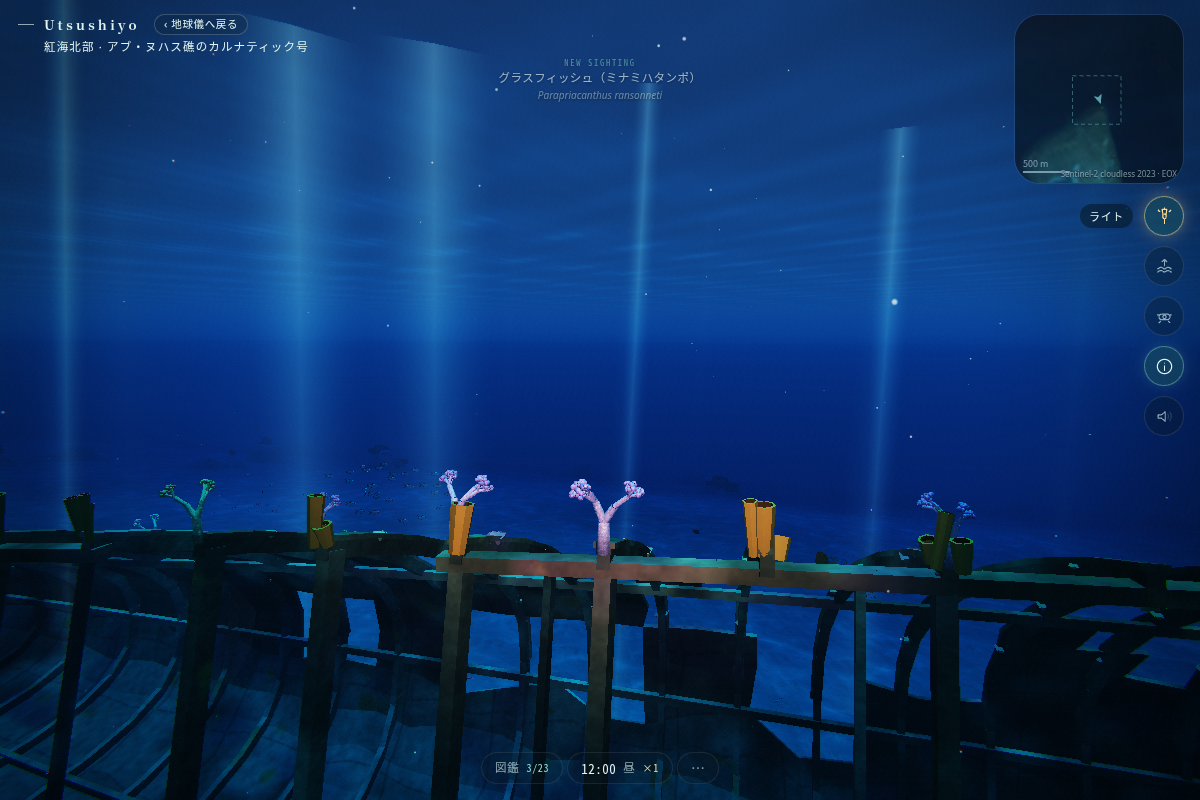
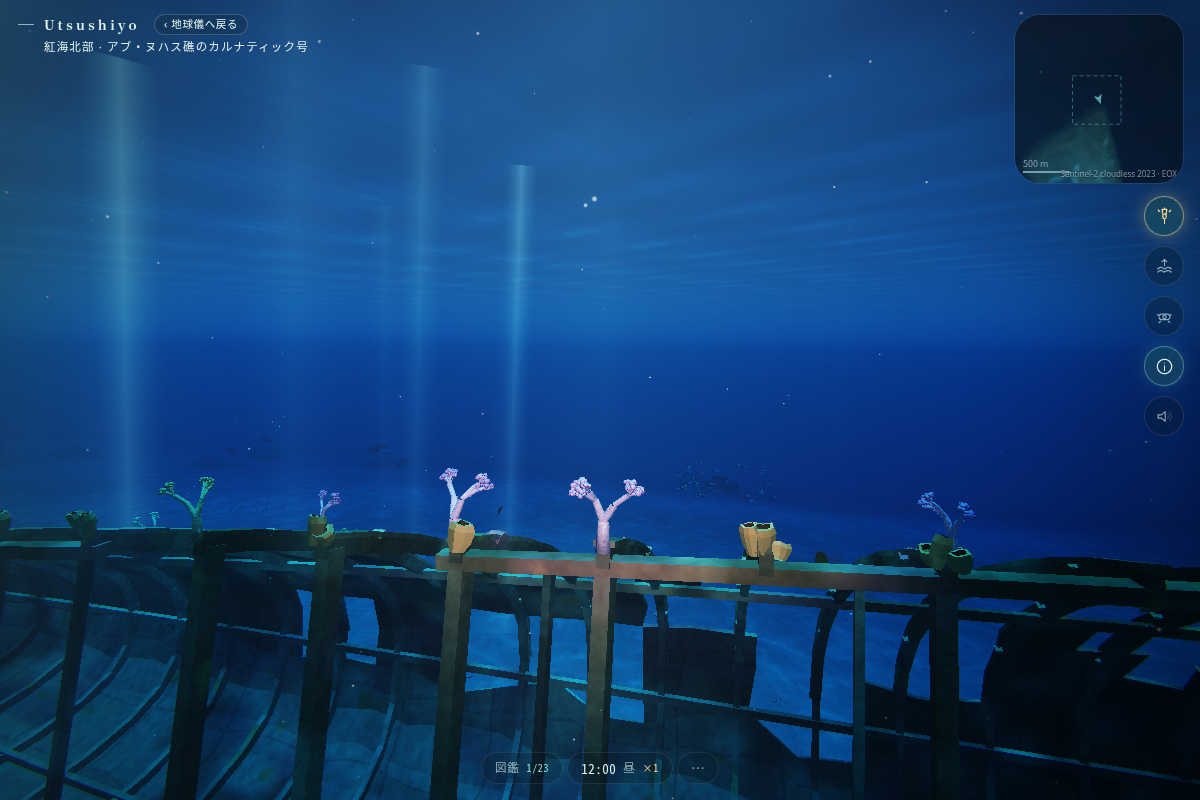
Finalize Astra Carnatic review captures and cost summary

diff --git a/docs/proposals/astra-carnatic/README.md b/docs/proposals/astra-carnatic/README.md
@@ -12,7 +12,7 @@
 
 ## 比較画像
 
-同じ指定位置・注視点、1200 × 800、low tier、UTC `2026-06-20T10:00:00Z`。天候は cloud 0.1 / wind 2。原型は dev、新型は production build + preview の実画面。ドローンの微小な上下動・衝突補正・生態系の動きは動作しており、画素単位で一致する比較ではない。
+同じ指定位置・注視点、1200 × 800、low tier、開始時刻はUTC `2026-06-20T10:00:00Z`（時計は×1で進む）。天候は cloud 0.1 / wind 2。原型は dev、新型は production build + preview の実画面。ドローンの微小な上下動・衝突補正・生態系の動きは動作しており、画素単位で一致する比較ではない。
 
 | 原型 | この試作 |
 | --- | --- |
@@ -22,6 +22,8 @@
 
 追加: [側面・原型](images/before-broadside.png) / [側面・試作](images/after-broadside.png)、[船首・原型](images/before-bow.png) / [船首・試作](images/after-bow.png)。
 
+最終形状の[ライト近景](images/after-detail-lamp.png)では、低い壺形の海綿の開口、梁の厚み、被覆を確認できる。ライトを点灯した別条件なので、原型との明るさ比較には使わない。撮影日時・読み込んだproduction bundle・実カメラ位置は[5視点の記録](images/after.json)と[近景の記録](images/after-detail.json)に保存した。
+
 | 視点 | 指定位置 | 注視点 |
 | --- | --- | --- |
 | overview | `[47,-5,-35]` | `[5,-14,-3]` |
@@ -29,6 +31,7 @@
 | stern | `[-50,-12,-18]` | `[-28,-15,-2]` |
 | broadside | `[4,-10,-45]` | `[6,-15,1]` |
 | bow | `[59,-13,-14]` | `[41,-16,-1]` |
+| lamp（ライト点灯） | `[24,-7.9,-12]` | `[26,-8.6,-5.8]` |
 
 ## 実装したこと
 
@@ -59,23 +62,39 @@
 
 ## 検証
 
-Node 22.23.3、既存 lockfile の `npm ci`、追加 dependency なし。
[1 lines of base64/hex data omitted]
+
+型検査・build・構造検査はこの最終形状で復旧前に成功している。環境復旧後にソースの一致と保存済みbuildを確認し、同じproduction bundleで5視点とライト近景を再撮影、実ドローン制御の両方向を再検査した。造形・アプリのソースは復旧後に変更していない。
 
 | 確認 | 結果 |
 | --- | --- |
 | `npm run typecheck` | 成功 |
 | `npm run build` | 成功。Vite の既存 `__dirname` / 次期 config loader 警告あり。 |
 | `npx tsx --import ./scripts/node-assets.mjs scripts/astra-wreck-check.ts` | 成功。73,396頂点・36,698三角形、有限属性、非縮退面、単位法線と表裏、潜水した境界を検査。 |
-| 実 `buildOcean` と衝突 | 3,426障害物点、183,999面内サンプルが実マップに覆われる。40付着点、100 `spot(out)` サンプルが有効。 |
-| ツアー | 両方向281サンプル、海底との最短4.20 m、障害物との最短3.00 / 3.52 m。実メッシュ距離とDirector完走も確認。 |
-| production browser | Chromium / SwiftShader / low、5視点。page error 0、WebGL error 0、context lostなし。画像を開いて目視。 |
-| 実ドローン制御 | browser の `seaglass.stepDrone(1/60)` を両方向4,262ステップずつ実行。両方完走、障害物の最短余裕2.997 / 3.483 m、終点差0.034 / 0.033 m。[実測JSON](drone-check.json)。これは制御の早回し検査で、70秒間の描画映像の検査ではない。 |
-| `npm run sim -- carnatic` | 成功。昼・夕・夜・朝の既存シミュレーションを実行。 |
+| 実 `buildOcean` と衝突 | 3,427障害物点、183,999面内サンプルが実マップに覆われる。40付着点、100 `spot(out)` サンプルが有効。 |
+| ツアー | 両方向281サンプル、海底高さに対する鉛直余裕の最小4.20 m、障害物高さマップに対する最小3.00 / 3.52 m。各経路サンプルで実メッシュとの距離0.7 m以上、Director完走も確認。 |
+| production browser | Chromium / SwiftShader / low、5視点＋ライト近景。page error 0、採取時のWebGL error 0、context lostなし。画像を開いて目視。外部リソース取得の失敗はこのJS/WebGL判定には含めない。 |
+| 実ドローン制御 | browser の `seaglass.stepDrone(1/60)` を両方向4,262ステップずつ実行。両方完走、障害物高さマップに対する鉛直余裕の最小2.997 / 3.483 m、終点差0.033 / 0.033 m。[実測JSON](drone-check.json)。これは制御の早回し検査で、70秒間の描画映像の検査ではない。 |
+| `npm run sim -- carnatic` | 昼・夕・夜・朝の既存シミュレーションは成功。最後の海綿形状の微調整前の実行結果で、復旧後は再実行していない。 |
 
 Windows ANGLE / D3D11、Safari、スマートフォン、実GPUでのフレーム時間・長時間運転は未検証。専用シェーダーにテクスチャ取得・早期return・discardを追加していないが、SwiftShaderでの成功をD3D11の保証とはしない。ソフトウェア描画の所要時間は実機FPSとして報告しない。障害物は既存の高さマップなので、船体の空洞を安全に自由潜航できる3D衝突にはなっていない。
 
 ## コストと引き継ぎ
 
 正確な計数は [costs.json](costs.json)、判断点と採用手順は [CLAUDE_HANDOFF.md](CLAUDE_HANDOFF.md)。船体+小型付着物は1メッシュ/1素材。40個の既存サンゴは別の既存instancingに合流するため、付着物まで「1 draw」とは言わない。新規テクスチャ・外部モデル・依存はない。
+
+| 計数対象 | 原型 | この試作 |
+| --- | ---: | ---: |
+| 船体メッシュの頂点 | 5,553 | 73,396 |
+| 船体メッシュの三角形（小型付着塊・海綿を含む） | 8,580 | 36,698 |
+| 船体の頂点属性＋indexのバイト数 | 251,388 B | 3,376,216 B |
+| index形式 | Uint16 | Uint32 |
+| 既存サンゴの付着点 | 87（fan 15 / soft 72） | 40（fan 8 / soft 32） |
+| 上記サンゴを全個体1回ずつ描く三角形数 | 230,904 | 103,296 |
+| 船体＋上記サンゴの三角形数の算術合計 | 239,484 | 139,994 |
+
+船体単体は約4.28倍の三角形と約13.43倍の属性/indexバイト数を使う。一方、既存サンゴの付着数を減らしたため、船体と全付着サンゴを各1回描く算術合計は約41.5%減る。この合計は周囲の海、可視判定、追加描画pass、shader処理を含まず、実GPU速度の比較ではない。バイト数もJSオブジェクト・生成時の一時配列・CPU/GPU双方のコピー・driverの割当を含まない。
+
+`costs.json` は制作時の計測結果と計測手順の記録。細かな属性バイト数と原型/試作の付着サンゴ照合を再生成する一時スクリプトは同梱していない。`astra-wreck-check.ts` で再現できるのはジオメトリ・衝突・付着点・ツアーの検査まで。
 
 再現用の [capture.cjs](capture.cjs) と [drone-check.cjs](drone-check.cjs) は cloud に既にある Playwright / Chromium を利用する補助ツール。アプリの依存ではない。

diff --git a/docs/proposals/astra-carnatic/CLAUDE_HANDOFF.md b/docs/proposals/astra-carnatic/CLAUDE_HANDOFF.md
@@ -4,7 +4,7 @@
 
 ## 最初に見るもの
 
-1. [README](README.md) の原型/試作の3視点。内部の奥行き、中央の切れ目、細い船首・船尾、海の静けさを見てほしい。
+1. [README](README.md) の原型/試作の5視点と最終形状のライト近景。内部の奥行き、中央の切れ目、細い船首・船尾、海の静けさを見てほしい。
 2. [変更の中心](../../../src/ocean/wreck.ts) を開く。実装は `src/ocean/wreck.ts` の1ファイルのみ。
 3. [costs.json](costs.json) と [drone-check.json](drone-check.json)。画面の印象と描画量・衝突の安全性を分けて判断する。
 
@@ -27,17 +27,19 @@ npm run typecheck
 npm run build
 npx tsx --import ./scripts/node-assets.mjs scripts/astra-wreck-check.ts
 npm run sim -- carnatic
-npm run preview -- --host 127.0.0.1 --port 4176
+npm run preview -- --host 127.0.0.1 --port 4176 --strictPort
 ```
 
 別プロセスから、cloudの既存 `NODE_PATH` で Playwright が読める状態で実行する。
 
 ```sh
+export NODE_PATH="${NODE_PATH:-/opt/codex/runtimes/codex-primary-runtime/dependencies/node/node_modules}"
 node docs/proposals/astra-carnatic/capture.cjs http://127.0.0.1:4176 carnatic review
+node docs/proposals/astra-carnatic/capture.cjs http://127.0.0.1:4176 carnatic review-detail detail
 node docs/proposals/astra-carnatic/drone-check.cjs http://127.0.0.1:4176
 ```
 
-`capture.cjs` は既存のアプリ画面へドローンを移動するだけ。画面の上下動・魚・粒子は止めていない。スクリーンショットを開いて自分でも見ること。将来の開発環境ではChromiumのパスを修正する必要がある。開発用は `npm run dev -- --host 127.0.0.1 --port 5176`。
+`capture.cjs` は既存のアプリ画面へドローンを移動するだけ。第4引数 `detail` でライトを点灯し、位置 `[24,-7.9,-12]` / 注視点 `[26,-8.6,-5.8]` の近景を撮る。上記では `images/review-*.png` と `images/review-detail-lamp.png`、対応するJSONを作る。画面の上下動・魚・粒子は止めていない。スクリーンショットを開いて自分でも見ること。将来の開発環境ではChromiumとPlaywrightのパスを修正する必要がある。開発用は `npm run dev -- --host 127.0.0.1 --port 5176 --strictPort`。
 
 ## 実装の地図
 
@@ -52,12 +54,12 @@ node docs/proposals/astra-carnatic/drone-check.cjs http://127.0.0.1:4176
 - **実物との一致**: この試作は資料未照合の解釈。実際の残存肋骨・外板・マスト・機関部と照合し、正確でないディテールを減らしてほしい。
 - **骨格の規則性**: 読みやすさのため周期が残る。近景でまだ新品の骨組みに見えるなら、資料に基づいて梁の抜け・曲がり・被覆密度を調整する。
 - **既存サンゴ**: 大きいウミウチワや樹状サンゴは既存モデルを再利用。海藻/サンゴ全体の描画品質は本案の変更外。
-- **コスト**: 船体は36,698三角形。近景の厚みと付着の小塊に多くを使う。実GPUで重ければpart4/5の密度や遠景LODをまず検討する。三角形だけでFPSは決められない。
+- **コスト**: 船体は36,698三角形・3,376,216 Bで、原型の8,580三角形・251,388 Bから増える。付着サンゴは87→40個に減り、船体＋全付着サンゴを各1回描く算術合計は239,484→139,994三角形。実GPU速度を測った値ではない。重ければpart4/5の密度や遠景LODをまず検討する。
 - **衝突**: 既存高さマップを維持し、外側のツアーは検査済み。内部潜航を採用するなら別目的として3D衝突・経路を設計する必要がある。
 - **乱数**: モデル造形に専用seedを使うようにしたため、共有乱数を使っていた原型とは周辺の初期配置がずれる。保存形式や住民ロジックの変更はない。
 
 ## 検証済み / 未検証
 
-型・build・Carnatic sim、有限ジオメトリ/面/法線、実マップの面内被覆、両方向のツアーとDirector、productionの5視点、実ドローン制御の両方向の早回しを確認済み。細かな数字はREADMEとJSONにある。
+最終形状の型・build、有限ジオメトリ/面/法線、実マップの183,999面内サンプル被覆（障害物点3,427）、両方向のツアーとDirectorを確認済み。環境復旧後に最終sourceのSHA-256一致を確認し、productionの5視点＋ライト近景を再撮影・目視した。実ドローン制御も同じproduction bundleで両方向の早回しを再確認。Carnatic simの昼・夕・夜・朝は最後の海綿形状の微調整前に成功し、復旧後は再実行していない。細かな数字・実行範囲・source SHAはREADMEとJSONにある。
 
 未検証は現地写真との照合、Windows ANGLE/D3D11、Safari/スマートフォン、実GPUの性能・長時間描画、全保存データの回帰。新しい専用shaderのテクスチャ取得は0だが、共通lightingは従来のものを使う。SwiftShader画像を実機性能の証拠にはしない。
